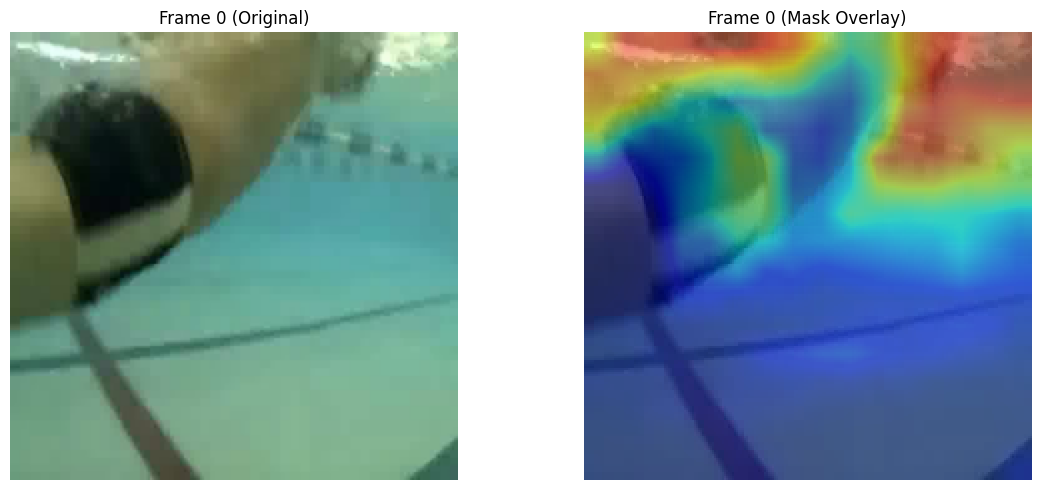
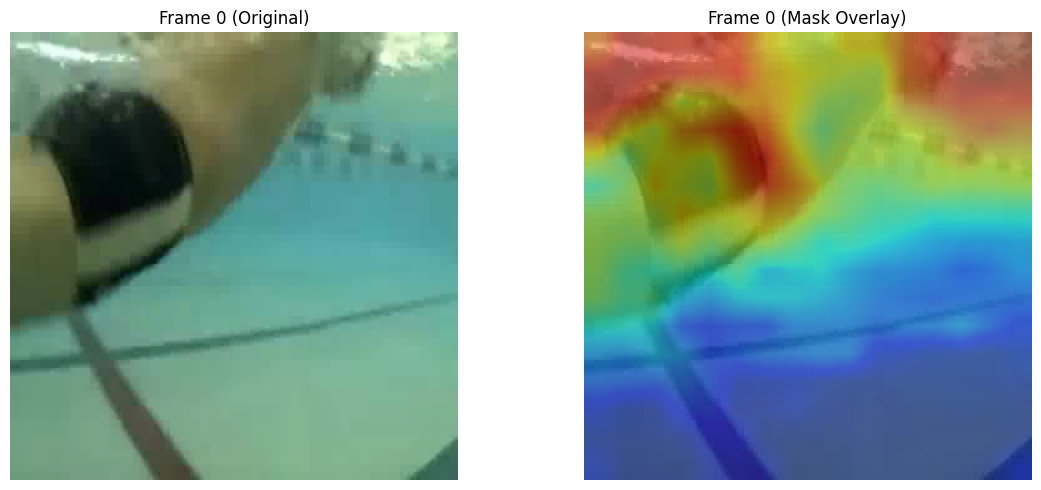
using maskcut for contrastive/cross entropy

Changed region(s): [[0.5533, 0.0612, 1.0, 0.9796]]

diff --git a/DiffTrack/point_sampling/data_utils.py b/DiffTrack/point_sampling/data_utils.py
@@ -11,6 +11,8 @@ from torchvision.models.optical_flow import raft_large #for optical flow
 import torch.nn.functional as F
 from transformers import AutoModel
 from depth_anything_3.api import DepthAnything3
+import numpy as np
+import scipy.sparse.linalg as linalg
 
 def mp4_to_frames(video_path):
     frames = []
@@ -120,6 +122,105 @@ def preprocess(vid_tensor, raw_frames, name, dino_model, raft_model, depth_model
     
     print(f"done: {vid_name}")
     
+    
+def get_maskcut_mask(img_rgb, dino_model, device):
+    '''
+    To construct the maskcut mask, and store it on disk.
+    using the full resolution dino instead of the downscaled 16x61 variant that was used before
+    '''
+    #dinov2-base has 518x518 base res, and a patch size of 37x37
+    res_size = 518
+    transform = v2.Compose([
+        v2.ToImage(),
+        v2.ToDtype(torch.float32, scale=True),
+        v2.Resize((res_size, res_size), antialias=True),
+        v2.Normalize(mean=[0.485, 0.456, 0.406], std=[0.229, 0.224, 0.225])
+    ])
+    
+    img_t = transform(img_rgb).unsqueeze(0).to(device)
+    
+    with torch.no_grad():
+        #extract features at native resolution
+        outputs = dino_model(img_t)
+        #patch tokens shape: [1, 1369, 768] for 37x37 grid
+        feats = outputs.last_hidden_state[0, 1:, :] 
+        feats = F.normalize(feats, p=2, dim=-1)
+    
+    '''
+    performing maskcut below (from tokenCut paper! it builds affinity graph)
+    '''
+    #this measures how much every patch 'looks like' every other patch
+    A = torch.matmul(feats, feats.T) 
+    A = A.cpu().numpy()
+    #we calculate the degree matrix D and Laplacian L
+    #ncuts finds the 'weakest link' in the graph to separate foreground
+    D = np.diag(np.sum(A, axis=1))
+    L = D - A
+    
+    try:
+        #this vector values will be positive for object, negative for bg
+        eigval, eigvec = linalg.eigsh(L, k=2, which='SM', M=D)
+        eigenvector = eigvec[:, 1]
+        
+        #thresholding
+        mask_raw = (eigenvector > np.median(eigenvector)).astype(np.float32)
+        
+        #I want actor=1, bg=0 (by checking the 4 corners)
+        mask_grid = mask_raw.reshape(37, 37)
+        corner_sum = mask_grid[0,0] + mask_grid[0,-1] + mask_grid[-1,0] + mask_grid[-1,-1]
+        if corner_sum > 2:
+            mask_grid = 1.0 - mask_grid
+            
+    except Exception as e:
+        #fallback to zeros if spectral clustering fails to converge
+        mask_grid = np.zeros((37, 37), dtype=np.float32)
+    
+    mask_t = torch.from_numpy(mask_grid).unsqueeze(0).unsqueeze(0)
+    mask_16 = F.interpolate(mask_t, size=(16, 16), mode='nearest')
+    
+    return mask_16.squeeze() #returns [16, 16]. is this too low? should native resolution be used..?
+    
+    
+def process_video_maskcuts(vid_name, raw_frames, dino_model, device, stride=2):
+    #to loop through frames and save the maskcut.pt file
+    video_dir = os.path.join("ucfrep_intermediate_dataset", vid_name)
+    os.makedirs(video_dir, exist_ok=True)
+    
+    strided_frames = raw_frames[::stride]
+    mask_list = []
+    
+    print(f"# {vid_name}: generating maskcut pseudo-labels...")
+    for i, frame in enumerate(strided_frames):
+        #matching the img_rgb first order
+        mask = get_maskcut_mask(frame, dino_model, device)
+        mask_list.append(mask.half()) 
+        
+        #save a preview jpg for the very first frame to verify quality
+        if i == 0:
+            #upscale mask back to 224 for a clear overlay
+            mask_viz = F.interpolate(mask.view(1,1,16,16).float(), size=(224, 224), mode='bilinear').squeeze().cpu().numpy()
+            mask_viz = (mask_viz * 255).astype(np.uint8)
+            
+            #apply colormap to mask
+            mask_color = cv2.applyColorMap(mask_viz, cv2.COLORMAP_JET)
+            
+            #resize original frame to 224
+            frame_resized = cv2.resize(frame, (224, 224))
+            #convert rgb to bgr for opencv saving
+            frame_bgr = cv2.cvtColor(frame_resized, cv2.COLOR_RGB2BGR)
+            
+            overlay = cv2.addWeighted(frame_bgr, 0.6, mask_color, 0.4, 0)
+            
+            #stack original and overlay side-by-side
+            comparison = np.hstack([frame_bgr, overlay])
+            
+            save_path_img = os.path.join(video_dir, "mask_preview.jpg")
+            cv2.imwrite(save_path_img, comparison)
+            # print(f"# saved preview to {save_path_img}")
+        
+    save_path = os.path.join(video_dir, "maskcut.pt")
+    torch.save(torch.stack(mask_list), save_path)
+    print(f"# done: saved {len(mask_list)} masks to {save_path}")
     
 # class UCFRep_train(Dataset):
 #     def __init__(self, root_dir, clip_len=8, k_gap=5):
@@ -376,21 +477,31 @@ if __name__ == "__main__":
     
     device = torch.device("cuda" if torch.cuda.is_available() else "cpu")
     
-    #depth model - switch to base for speed
-    depth_model = DepthAnything3.from_pretrained("depth-anything/da3-base")
-    depth_model = depth_model.to(device=device)
+    # #depth model - switch to base for speed
+    # depth_model = DepthAnything3.from_pretrained("depth-anything/da3-base")
+    # depth_model = depth_model.to(device=device)
     
     #dino model
     model_name = 'facebook/dinov2-base'
     dino_model = AutoModel.from_pretrained(model_name, output_attentions=True).cuda()
     dino_model.eval()
     
-    #optical flow model
-    raft_model = raft_large(pretrained=True, progress=False).cuda().eval()
+    # #optical flow model
+    # raft_model = raft_large(pretrained=True, progress=False).cuda().eval()
 
+    # for idx, vid_file in enumerate(os.listdir(dir)):
+    #     #each one is an mp4 file
+    #     frames = mp4_to_frames(os.path.join(dir, vid_file)) #get frames
+    #     video_tensor = tensorize_vid(frames, transform)
+        
+    #     preprocess(video_tensor, frames, vid_file, dino_model, raft_model, depth_model)
+    
+    
     for idx, vid_file in enumerate(os.listdir(dir)):
         #each one is an mp4 file
         frames = mp4_to_frames(os.path.join(dir, vid_file)) #get frames
-        video_tensor = tensorize_vid(frames, transform)
+        vid_name = os.path.splitext(vid_file)[0]
         
-        preprocess(video_tensor, frames, vid_file, dino_model, raft_model, depth_model)
+        process_video_maskcuts(vid_name, frames, dino_model, device)
+    
+    

diff --git a/DiffTrack/point_sampling/model_finetune.py b/DiffTrack/point_sampling/model_finetune.py
@@ -28,7 +28,9 @@ class DINOv2_LoRA(nn.Module):
         NEW!- adding a head after finetuning for mask generation..
         '''
         self.seg_head = nn.Sequential(
-            nn.Conv2d(768, 1, kernel_size=1), #768d is the output of DINOv2-base
+            # kernel_size=(3, 1, 1): Looks across 3 frames, but 1x1 spatially.
+            # padding=(1, 0, 0): Ensures the output Time dimension remains T=2.
+            nn.Conv3d(768, 1, kernel_size=(3, 1, 1), padding=(1, 0, 0)), #768d is the output of DINOv2-base
             nn.Sigmoid() #output 0-1
         )
 
@@ -47,24 +49,34 @@ class DINOv2_LoRA(nn.Module):
         #reshape back to [b*t, 768, 16, 16] for spatial masking later
         patch_features = features[:, 1:, :].permute(0, 2, 1).view(b * t, 768, 16, 16)
         
+        patch_features_unsq = patch_features.view(b, t, 768, 16, 16)
+        patch_features_3d = patch_features_unsq.permute(0, 2, 1, 3, 4)
+        pred_mask_3d = self.seg_head(patch_features_3d) #output- [B, 1, T, 16, 16]
+        
         #pass the predicted patch tokens into head, to get mask
-        pred_mask = self.seg_head(patch_features)
+        pred_mask = pred_mask_3d.permute(0, 2, 1, 3, 4)
         return {
-            "patch_features": patch_features.view(b, t, 768, 16, 16),
+            "patch_features": patch_features_unsq.view(b, t, 768, 16, 16),
             "pred_mask": pred_mask.view(b, t, 1, 16, 16)
         }
         
 
-def get_robust_mask(flow, depth, threshold_multiplier=1.2):
+def get_robust_mask(flow, depth, threshold_multiplier=1.2, sigma=1.5):
     #flow shape: [b, t, 2, h, w], depth shape: [b, t, 1, h, w]
     #this acts as a noisy teacher, giving dino a hint on where to look
-    
+    b, t, _, h, w = flow.shape
     # calculate motion magnitude
     mag = torch.norm(flow, dim=2, keepdim=True) #[b, t, 1, h, w]
         
     #normalizing per frame- f_max: [b, t, 1, 1, 1]
     f_max = depth.flatten(2).max(dim=-1)[0].view(depth.shape[0], depth.shape[1], 1, 1, 1)
     depth_norm = depth / (f_max + 1e-8)
+    
+    
+    # y_grid = torch.linspace(-1, 1, h, device=flow.device).view(1, 1, 1, h, 1)
+    # x_grid = torch.linspace(-1, 1, w, device=flow.device).view(1, 1, 1, 1, w)
+
+    # center_prior = torch.exp(-(x_grid**2 + y_grid**2) / (2 * sigma**2))
     
     combined_score = mag * depth_norm
     

diff --git a/DiffTrack/point_sampling/finetune_dino_test.py b/DiffTrack/point_sampling/finetune_dino_test.py
@@ -8,9 +8,9 @@ import matplotlib.pyplot as plt
 from transformers import AutoModel
 # from sklearn.cluster import KMeans
 
-checkpoint_path = "test_models/new_lora_dino_epoch_49.pth" 
-video_path = "UCF_Rep/val/v_CuttingInKitchen_g21_c01.mp4" #pick a specific video to test
-# video_path = "vids_mp4/benchpress.mp4" #pick a specific video to test 
+checkpoint_path = "test_models/new3d_lora_dino_epoch_99.pth" 
+video_path = "UCF_Rep/val/v_Biking_g21_c01.mp4" #pick a specific video to test
+# video_path = "vids_mp4/swim_3.mp4" #pick a specific video to test 
 # video_path = "countix/-dxBq0WzYRU_35.42309_37.71705.mp4"
 device = torch.device("cuda" if torch.cuda.is_available() else "cpu")
 
@@ -27,7 +27,7 @@ def visualize():
     norm_mean = torch.tensor([0.485, 0.456, 0.406]).view(3, 1, 1).to(device)
     norm_std = torch.tensor([0.229, 0.224, 0.225]).view(3, 1, 1).to(device)
 
-    for _ in range(1): #just look at the first frame
+    for _ in range(2): #just look at the first frame
         ret, frame = cap.read()
         if not ret: break
         frame_rgb = cv2.cvtColor(frame, cv2.COLOR_BGR2RGB)
@@ -143,7 +143,7 @@ def visualize_plain():
     norm_mean = torch.tensor([0.485, 0.456, 0.406]).view(3, 1, 1).to(device)
     norm_std = torch.tensor([0.229, 0.224, 0.225]).view(3, 1, 1).to(device)
 
-    for _ in range(1): #just look at the first frame
+    for _ in range(2): #just look at the first frame
         ret, frame = cap.read()
         if not ret: break
         frame_rgb = cv2.cvtColor(frame, cv2.COLOR_BGR2RGB)

diff --git a/DiffTrack/point_sampling/train_new.py b/DiffTrack/point_sampling/train_new.py
@@ -32,6 +32,7 @@ def train():
     dataset = UCFRep_finetune(
         mp4_dir="UCF_Rep/train",
         pt_dir="ucfrep_intermediate_dataset", 
+        k = 1
     )
     dataloader = DataLoader(dataset, batch_size=16, shuffle=True, drop_last=True) #EXPERIMENT WITH BATCH NEGATIVES LATER??
     
@@ -131,7 +132,7 @@ def train():
                 print(f"Epoch: {epoch}, Batch: {batch_idx}, Total Loss: {total_loss.item():.4f} (CE: {loss_ce.item():.4f}, CR: {loss_cr.item():.4f})")
         
         os.makedirs("test_models", exist_ok=True)
-        checkpoint_path = os.path.join("test_models", f"new_lora_dino_epoch_{epoch}.pth")
+        checkpoint_path = os.path.join("test_models", f"new3d_lora_dino_epoch_{epoch}.pth")
         # Save checkpoint every 50th epoch (50, 100, ...)
         if (epoch + 1) % 25 == 0:
             # safeguard for DataParallel saving
